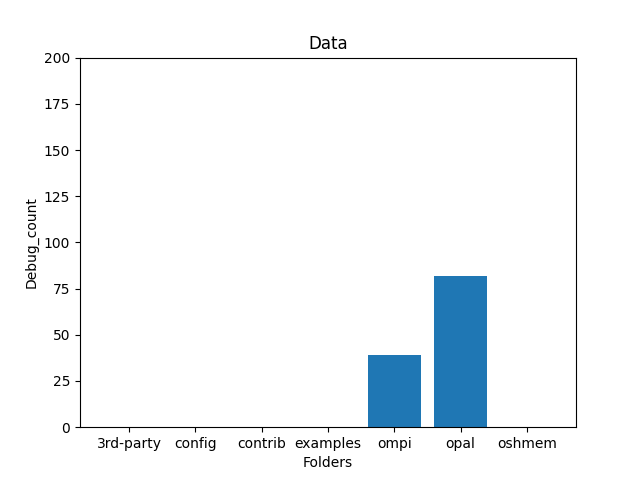
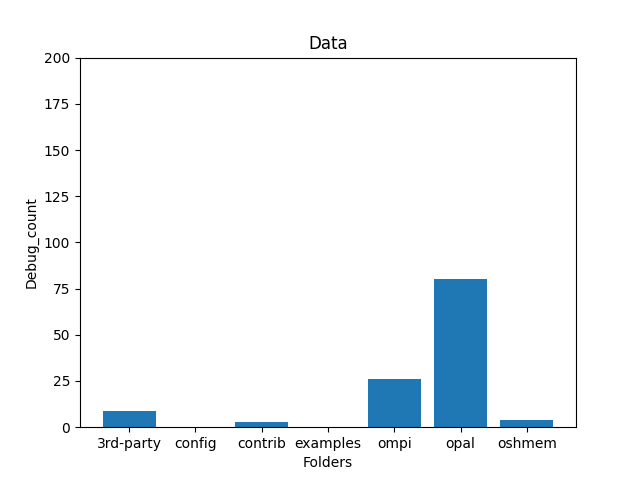
changed debug code

diff --git a/prod.py b/prod.py
@@ -27,10 +27,17 @@ def is_file(filepath):
                 assert_count = assert_count + 1
 
         for line in lines:
-            if re.search(r'^.*.DEBUG\(.*', line):
+            # if re.search(r'^.*.DEBUG\(.*', line):
+            if line.startswith("#if") and line.find("DEBUG") > 0:
+
+                print(line)
+                print("Holla")
                 list2.append(lines.index(line)+1)
+                lines[lines.index(line)]=""
                 print(line)
                 debug_count = debug_count + 1
+            # if debug_count > 0:
+            #     break
 
     else:
         return [],[],-1, -1
